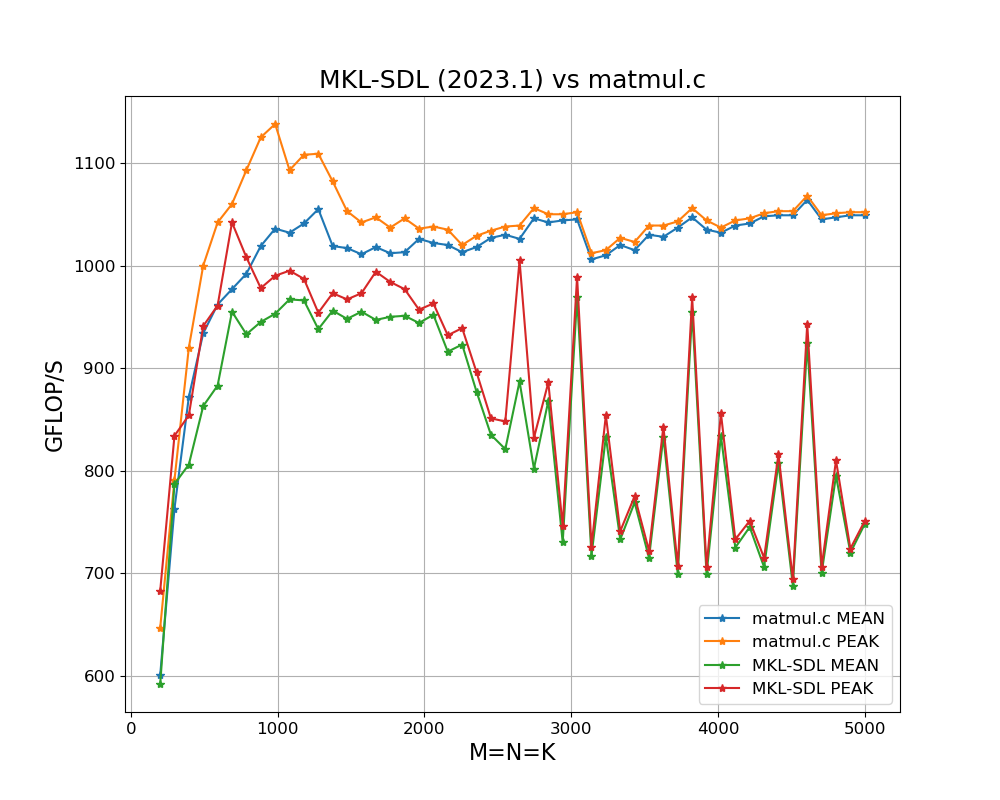
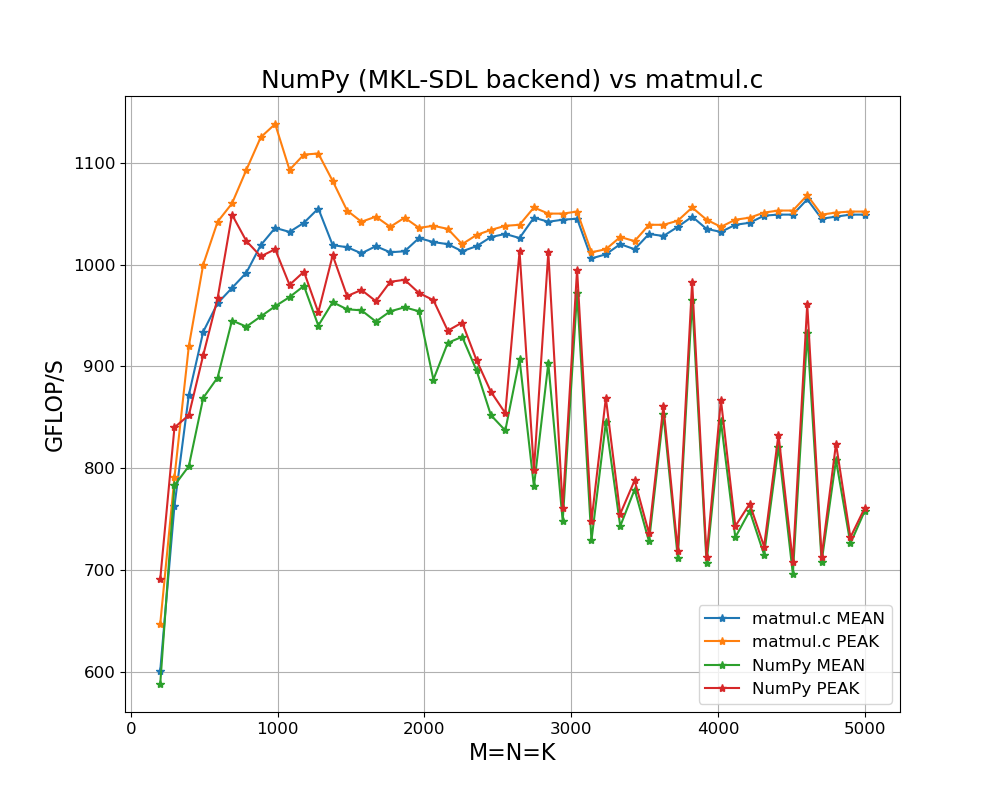
update

diff --git a/plot_benchmark.py b/plot_benchmark.py
@@ -6,10 +6,8 @@ import numpy as np
 if __name__ == "__main__":
     try:
         blas_lib = np.show_config(mode="dicts")["Build Dependencies"]["blas"]["name"].upper()
-        blas_lib_version = np.show_config(mode="dicts")["Build Dependencies"]["blas"]["version"].upper()
     except KeyError:
         blas_lib = "NumPy"
-        blas_lib_version = np.version.version
 
     benchmark_data = glob.glob("*.txt")
     assert (
@@ -26,12 +24,12 @@ if __name__ == "__main__":
 
     if "benchmark_numpy.txt" in benchmark_data:
         mat_sizes, min_gflops_numpy, max_gflops_numpy, avg_gflops_numpy = np.loadtxt("benchmark_numpy.txt").T
-        plt.plot(mat_sizes, avg_gflops_numpy, "-*", label=f"{blas_lib} MEAN")
-        plt.plot(mat_sizes, max_gflops_numpy, "-*", label=f"{blas_lib} PEAK")
+        plt.plot(mat_sizes, avg_gflops_numpy, "-*", label="NumPy MEAN")
+        plt.plot(mat_sizes, max_gflops_numpy, "-*", label="NumPy PEAK")
 
     ax.set_xlabel("M=N=K", fontsize=16)
     ax.set_ylabel("GFLOP/S", fontsize=16)
-    ax.set_title(f"{blas_lib} ({blas_lib_version}) vs matmul.c", fontsize=18)
+    ax.set_title(f"NumPy ({blas_lib} backend) vs matmul.c", fontsize=18)
     ax.legend(fontsize=12)
     ax.grid()
     plt.show()

diff --git a/README.md b/README.md
@@ -5,10 +5,10 @@
 ## Key Features
 - Simple and scalable C code (<150 LOC)
 - Works for arbitrary matrix sizes
-- Faster than OpenBLAS and MKL (tested on Ryzen 7700)
-- Targets x86 processors with AVX2 and FMA3 instructions (=all modern Intel Core and AMD Ryzen CPUs)
+- Faster than NumPy with OpenBLAS and MKL backends (tested on Ryzen 7700)
 - Step by step [tutorial](https://salykova.github.io/matmul-cpu)
 - Efficiently parallelized with just 3 lines of OpenMP directives
+- Targets x86 processors with AVX2 and FMA3 instructions (=all modern Intel Core and AMD Ryzen CPUs)
 - Follows the [BLIS](https://github.com/flame/blis) design
 - Intuitive API `void matmul(float* A, float* B, float* C, const int M, const int N, const int K)`
 
@@ -39,7 +39,6 @@ Tested on:
 <p align="center">
   <img src="assets/perf_vs_mkl.png" alt="mt1" width="80%">
 </p>
-
 
 To reproduce the results, run:
 ```bash
